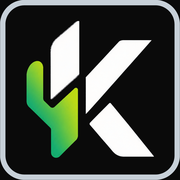
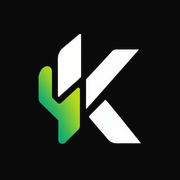
feat(kactus): Fase 3 do plano 2026-10-07 — Kactus como app na Tela de Início do iPhone
- manifest (standalone, abre no /dashboard) + icones 192/512/maskable e
  apple-icon sem moldura, gerados da Logomarca Kactus sobre o fundo do app
- appleWebApp (tela cheia, barra de status translucida) + viewport-fit=cover
- areas seguras: barra superior, sheet Mais, aviso de servidor e conteudo
  acima da barra de gestos; modais em dvh
- campos com 16px no celular (o Safari dava zoom ao tocar)
- sem service worker, de proposito (token em localStorage)

Changed region(s): [[0.1389, 0.1111, 0.8611, 0.8889], [0.0, 0.0, 1.0, 1.0]]

diff --git a/Kactus/apps/web/components/Sidebar.tsx b/Kactus/apps/web/components/Sidebar.tsx
@@ -182,8 +182,14 @@ export function Sidebar() {
 
       {/* ───────── Mobile: top bar ───────── */}
       <header
-        className="sticky top-0 z-40 flex h-14 items-center justify-between px-4 md:hidden"
-        style={{ background: "rgba(10,10,10,0.82)", backdropFilter: "blur(16px)", borderBottom: "1px solid rgba(255,255,255,0.05)" }}
+        className="sticky top-0 z-40 flex items-center justify-between px-4 md:hidden"
+        style={{
+          height: "calc(3.5rem + env(safe-area-inset-top))",
+          paddingTop: "env(safe-area-inset-top)",
+          background: "rgba(10,10,10,0.82)",
+          backdropFilter: "blur(16px)",
+          borderBottom: "1px solid rgba(255,255,255,0.05)",
+        }}
       >
         <Link href="/dashboard" aria-label="Kactus — Dashboard"><Logo size={30} /></Link>
         <Link href="/profile" aria-label="Perfil"><Avatar user={user} avatarUrl={avatarUrl} size={30} /></Link>
@@ -239,7 +245,8 @@ export function Sidebar() {
             role="dialog"
             aria-modal="true"
             aria-label="Mais opções de navegação"
-            className="od-panel od-panel-glass od-nav-sheet absolute inset-x-3 bottom-[76px] animate-od-fade-up overflow-hidden !p-2"
+            className="od-panel od-panel-glass od-nav-sheet absolute inset-x-3 animate-od-fade-up overflow-hidden !p-2"
+            style={{ bottom: "calc(76px + env(safe-area-inset-bottom))" }}
             onClick={(e) => e.stopPropagation()}
           >
             {ALL_ITEMS.filter((i) => !MOBILE_PRIMARY.includes(i.href)).map((item) => (

diff --git a/Kactus/apps/web/app/manifest.ts b/Kactus/apps/web/app/manifest.ts
@@ -1,0 +1,22 @@
+import type { MetadataRoute } from "next";
+
+/** "App" na Tela de Início (iPhone/Android). Sem service worker de propósito: token em localStorage + cache = páginas velhas. */
+export default function manifest(): MetadataRoute.Manifest {
+  return {
+    name: "Kactus",
+    short_name: "Kactus",
+    description: "Análise pessoal de treino - corrida, ciclismo e natação",
+    start_url: "/dashboard",
+    scope: "/",
+    display: "standalone",
+    orientation: "portrait",
+    background_color: "#0A0A0A",
+    theme_color: "#0A0A0A",
+    lang: "pt-BR",
+    icons: [
+      { src: "/icons/app-192.png", sizes: "192x192", type: "image/png", purpose: "any" },
+      { src: "/icons/app-512.png", sizes: "512x512", type: "image/png", purpose: "any" },
+      { src: "/icons/app-maskable-512.png", sizes: "512x512", type: "image/png", purpose: "maskable" },
+    ],
+  };
+}

diff --git a/Kactus/apps/web/components/share/StoryGenerator.tsx b/Kactus/apps/web/components/share/StoryGenerator.tsx
@@ -367,8 +367,9 @@ export function StoryGenerator({ activity, splits, zones, onClose }: {
     >
       <div
         onClick={(e) => e.stopPropagation()}
-        className="od-panel flex max-h-[95vh] w-full max-w-[520px] flex-col overflow-y-auto !rounded-b-none sm:!rounded-card"
-        style={{ background: "#0e0e0e" }}
+        className="od-panel flex w-full max-w-[520px] flex-col overflow-y-auto !rounded-b-none sm:!rounded-card"
+        // dvh = altura visivel de verdade no Safari; o topo nao entra embaixo da barra de status do iPhone
+        style={{ background: "#0e0e0e", maxHeight: "min(95dvh, calc(100dvh - env(safe-area-inset-top) - 8px))" }}
       >
         <div className="mb-4 flex items-center justify-between">
           {gallery ? (

diff --git a/Kactus/apps/web/app/layout.tsx b/Kactus/apps/web/app/layout.tsx
@@ -4,12 +4,18 @@ import "./globals.css";
 export const metadata: Metadata = {
   title: "Kactus",
   description: "Analise pessoal de treino - corrida, ciclismo e natacao",
+  applicationName: "Kactus",
+  // iPhone: "Adicionar à Tela de Início" abre em tela cheia, conteudo por baixo da barra de status
+  appleWebApp: { capable: true, title: "Kactus", statusBarStyle: "black-translucent" },
+  formatDetection: { telephone: false },
 };
 
 export const viewport: Viewport = {
   themeColor: "#0A0A0A",
   width: "device-width",
   initialScale: 1,
+  // Libera env(safe-area-inset-*) para respeitar entalhe e barra inferior do iPhone
+  viewportFit: "cover",
 };
 
 export default function RootLayout({ children }: { children: React.ReactNode }) {

diff --git a/Kactus/apps/web/app/globals.css b/Kactus/apps/web/app/globals.css
@@ -126,6 +126,25 @@ body {
   transform: none;
 }
 
+/* ───── iPhone (app na Tela de Início) ───── */
+/* Conteudo do shell acima da barra inferior + area segura (barra de gestos) */
+.od-shell-content {
+  padding-bottom: calc(5rem + env(safe-area-inset-bottom));
+}
+@media (min-width: 768px) {
+  .od-shell-content {
+    padding-bottom: 0;
+  }
+}
+/* O Safari do iPhone da zoom ao focar campo com fonte < 16px */
+@media (max-width: 767px) {
+  input:not([type="checkbox"]):not([type="radio"]):not([type="range"]),
+  textarea,
+  select {
+    font-size: 16px !important;
+  }
+}
+
 :focus-visible {
   outline: 2px solid rgba(0, 255, 102, 0.6);
   outline-offset: 2px;

diff --git a/Kactus/apps/web/components/dashboard/ActivityModal.tsx b/Kactus/apps/web/components/dashboard/ActivityModal.tsx
@@ -83,7 +83,7 @@ export function ActivityModal({ activity, activities, detail, onClose }: {
         ref={panelRef}
         tabIndex={-1}
         onClick={(e) => e.stopPropagation()}
-        className="od-panel max-h-[88vh] w-full max-w-[760px] animate-od-fade-up overflow-y-auto !rounded-b-none sm:!rounded-card outline-none"
+        className="od-panel max-h-[88dvh] w-full max-w-[760px] animate-od-fade-up overflow-y-auto !rounded-b-none sm:!rounded-card outline-none"
         style={{ background: "linear-gradient(180deg, rgba(0,255,102,0.04), transparent 30%), #0e0e0e" }}
       >
         <div className="mb-5 flex items-start justify-between gap-4">

diff --git a/Kactus/apps/web/components/WakingBanner.tsx b/Kactus/apps/web/components/WakingBanner.tsx
@@ -13,7 +13,11 @@ export function WakingBanner() {
   }, []);
   if (count === 0) return null;
   return (
-    <div role="status" className="fixed inset-x-0 top-0 z-[90] bg-brand-accent/90 px-4 py-1.5 text-center text-xs font-semibold text-black">
+    <div
+      role="status"
+      className="fixed inset-x-0 top-0 z-[90] bg-brand-accent/90 px-4 pb-1.5 text-center text-xs font-semibold text-black"
+      style={{ paddingTop: "calc(0.375rem + env(safe-area-inset-top))" }}
+    >
       Acordando o servidor… pode levar alguns segundos.
     </div>
   );

diff --git a/Kactus/apps/web/components/AppShell.tsx b/Kactus/apps/web/components/AppShell.tsx
@@ -9,7 +9,7 @@ export function AppShell({ children }: { children: React.ReactNode }) {
       <WakingBanner />
       <Sidebar />
       {/* Cada pagina ja renderiza seu proprio <main> (PageContainer); este wrapper e so o alvo do skip-link. */}
-      <div id="conteudo" tabIndex={-1} className="min-w-0 pb-20 outline-none md:ml-[76px] md:pb-0 lg:ml-60">{children}</div>
+      <div id="conteudo" tabIndex={-1} className="od-shell-content min-w-0 outline-none md:ml-[76px] lg:ml-60">{children}</div>
     </div>
   );
 }
